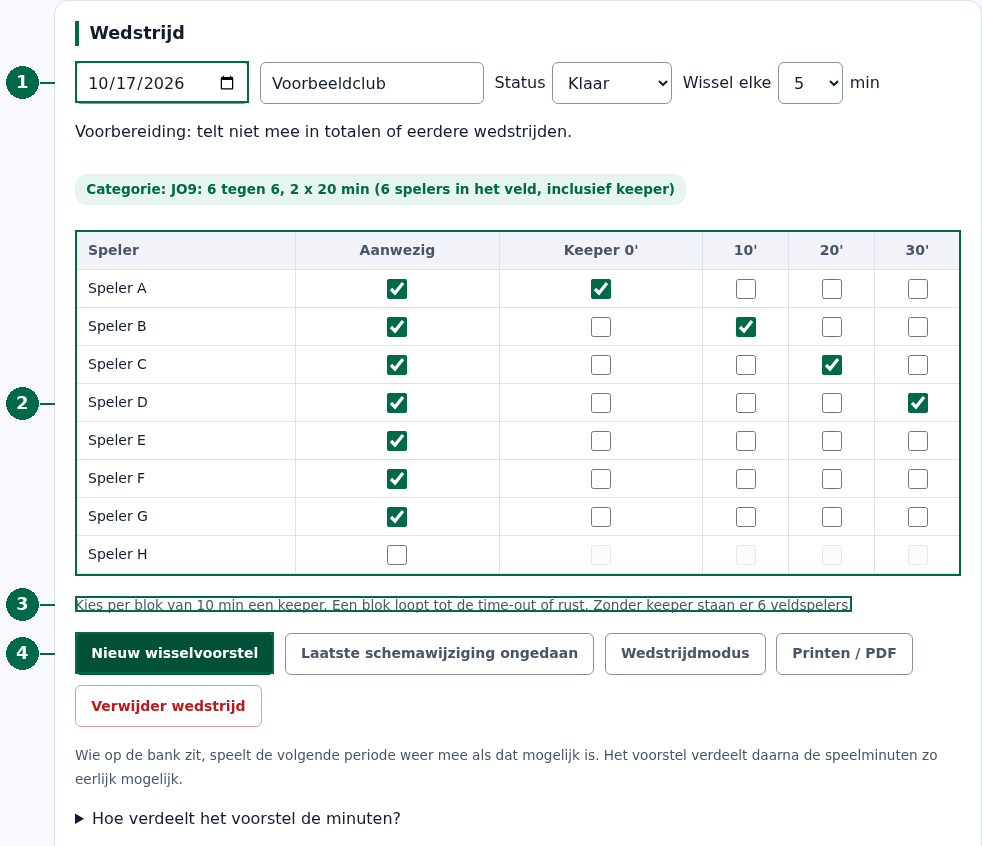
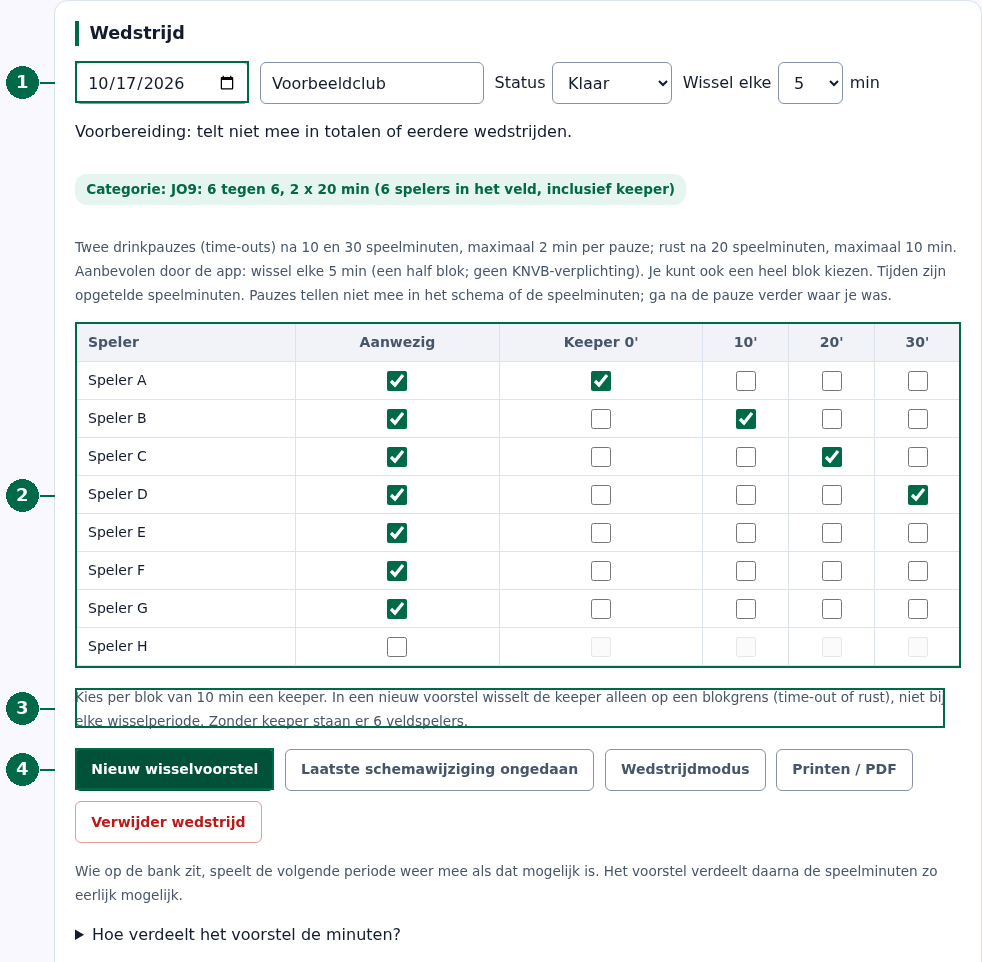
feat: recommend category-aware substitution intervals (#7)

diff --git a/uitleg.html b/uitleg.html
@@ -66,6 +66,10 @@
   .contents { display: flex; flex-wrap: wrap; gap: .55rem; padding-top: 1rem; margin-top: 1rem; border-top: 1px solid var(--border) }
   .contents a { display: inline-flex; align-items: center; padding: .4rem .8rem; min-height: 40px; border: 1px solid var(--border); border-radius: 999px; background: var(--subtle); color: var(--muted); text-decoration: none; font-size: .85rem; font-weight: 600 }
   .contents a:hover { color: var(--primary); background: var(--primary-light); border-color: #96c6b5 }
+  .timing-table { overflow-x: auto }
+  .timing-table table { width: 100%; min-width: 680px; border-collapse: collapse; font-size: .9rem }
+  .timing-table th, .timing-table td { border: 1px solid var(--border); padding: .5rem; text-align: left; vertical-align: top; overflow-wrap: normal }
+  .timing-table th { background: var(--subtle) }
   figure { margin: 1.25rem 0 0; padding: .75rem; background: var(--subtle); border: 1px solid var(--border); border-radius: 10px }
   figure a { display: block; border-radius: 6px }
   img { display: block; max-width: 100%; height: auto; border: 1px solid var(--border); border-radius: 6px }
@@ -119,6 +123,22 @@
 <li>Kies bij categorieën met keeper voor elk blok één aanwezige speler als keeper. De kolom toont de startminuut van het blok. Zonder vinkje gebruikt de app alleen veldspelers; bij een categorie zonder keeper zijn er geen keeperkolommen.</li>
 <li>Klik op <strong>Nieuw wisselvoorstel</strong> als je een nieuw voorstel wilt. Als je de aanwezigheid, keeper of het wisselinterval wijzigt, maakt de app ook een nieuw schema. Bij een handmatig aangepast, oud of gespeeld schema vraagt de app eerst of je dat wilt vervangen. Annuleren bewaart zowel instellingen als schema. Met <strong>Laatste schemawijziging ongedaan</strong> herstel je één vorige schemawijziging, ook na opnieuw openen.</li>
 </ol>
+<h3>Speeltijd, pauzes en wisselinterval</h3>
+<p>De app adviseert een wisselinterval van een half blok. Dat is een keuze van de app, geen KNVB-verplichting. Je kunt bij <strong>Wissel elke … min</strong> ook een heel blok kiezen. <strong>7:30</strong> betekent 7 minuten en 30 seconden, dus 7,5 minuut.</p>
+<p>Op een smal scherm kun je deze tabel horizontaal schuiven om de pauzemomenten te lezen.</p>
+<div class="timing-table" role="region" aria-label="Speeltijden per categorie" tabindex="0"><table>
+<thead><tr><th>Categorie</th><th>Speeltijd</th><th>Blok</th><th>Aanbevolen wisselinterval</th><th>Pauzemomenten in speelminuten</th></tr></thead>
+<tbody>
+<tr><td>JO7</td><td>3 wedstrijdjes van 15 min</td><td>7:30 min</td><td>3:45 min</td><td>Blokgrenzen op 7:30, 22:30 en 37:30; een nieuw wedstrijdje na 15 en 30 min. Geen keeper.</td></tr>
+<tr><td>JO8 / JO9</td><td>2 × 20 min</td><td>10 min</td><td>5 min</td><td>Drinkpauzes op 10 en 30; rust op 20 min.</td></tr>
+<tr><td>JO10</td><td>2 × 25 min</td><td>12:30 min</td><td>6:15 min</td><td>Drinkpauzes op 12:30 en 37:30; rust op 25 min.</td></tr>
+<tr><td>JO11 / MO11 / JO12</td><td>2 × 30 min</td><td>15 min</td><td>7:30 min</td><td>Drinkpauzes op 15 en 45; rust op 30 min.</td></tr>
+</tbody>
+</table></div>
+<p>Bij JO8 tot en met JO12 en MO11 duren de twee drinkpauzes (time-outs) maximaal 2 minuten per pauze. De rust duurt bij JO8, JO9 en JO10 maximaal 10 minuten; bij JO11, MO11 en JO12 maximaal 15 minuten. Een keeperblok loopt tot een time-out of rust. Bij het aanbevolen halve blok zijn er twee wisselperiodes per keeperblok: in een nieuw voorstel blijft de gekozen keeper beide periodes staan. Keeper per periode in de tabel blijft beschikbaar om achteraf te corrigeren.</p>
+<p>Alle tijden zijn opgetelde speelminuten. Pauzes tellen niet mee in het schema of de speelminuten. Houd je eigen klok tijdens een pauze stil en ga daarna verder waar je was; de app heeft geen automatische timer. Bij JO7 telt één schema de drie wedstrijdjes door tot 45 speelminuten.</p>
+<p>Het advies geldt voor nieuwe wedstrijden en bij een bevestigde categorieomzetting als het vorige interval niet meer past. Een passend, zelfgekozen interval blijft staan. Opgeslagen en teruggezette schema’s worden niet stilzwijgend aangepast.</p>
+<p>Speeltijden en wedstrijdvormen: KNVB seizoen 2026/’27, infographics 4 tegen 4 (O7), 6 tegen 6 (O8, O9 en O10) en 8 tegen 8 (O11 en O12).</p>
 <p>Bij oude wedstrijden zonder opgeslagen status toont de app <strong>afgeleid</strong>: een datum vóór vandaag telt voorlopig als Gespeeld, vandaag of later als Klaar. Dit is geen bewijs dat er is gespeeld. Kies zelf de juiste status. De app verandert het oude schema niet.</p>
 <figure><a href="assets/manual/03-wedstrijd.png"><img src="assets/manual/03-wedstrijd.png" alt="Voorbeeldwedstrijd: 1 datum en tegenstander, 2 aanwezigheid, 3 uitleg keeperblokken, 4 nieuw wisselvoorstel."></a><figcaption>Speler H is afwezig; de keeper wisselt per blok. De status Klaar betekent dat dit nog een voorbereiding is.</figcaption></figure>
 </section>

diff --git a/matches.test.js b/matches.test.js
@@ -15,6 +15,86 @@ function app(storage = { value: JSON.stringify(initial()) }, accept = true) {
   vm.runInContext(fs.readFileSync('index.html','utf8').match(/<script>([\s\S]*?)<\/script>/)[1], context);
   return { node, alerts, storage, reloads:()=>reloadCount, data:()=>JSON.parse(storage.value), run:code=>vm.runInContext(code, context) };
 }
+test('new matches recommend half a category block, including fractional minutes', () => {
+  for (const [category, interval, total] of [['JO7',3.75,45],['JO8',5,40],['JO9',5,40],['JO10',6.25,50],['JO11',7.5,60],['MO11',7.5,60],['JO12',7.5,60]]) {
+    const d=initial(); d.teams[0].cat=category;
+    const a=app({value:JSON.stringify(d)}); a.node('#newMatch').onclick();
+    const m=a.data().matches[0];
+    assert.equal(m.interval,interval,category);
+    assert.equal(m.slots.length*m.interval,total,category);
+    assert.equal(m.slots.length,category==='JO7'?12:8);
+    assert.ok(m.slots.every(on=>on.length===a.run(`CATS.${category}.field`)));
+  }
+});
+
+test('category guidance distinguishes breaks, recommended intervals and keeper blocks', () => {
+  for (const category of ['JO7','JO8','JO9','JO10','JO11','MO11','JO12']) {
+    const d=initial(); d.teams[0].cat=category;
+    const a=app({value:JSON.stringify(d)}); a.node('#newMatch').onclick();
+    const hint=a.node('#timingHint').textContent || '';
+    assert.match(hint,/Aanbevolen door de app/);
+    assert.match(hint,/geen KNVB-verplichting/);
+    assert.match(hint,/Pauzes tellen niet mee/);
+    if(category==='JO7') {
+      assert.match(hint,/7:30, 22:30 en 37:30/);
+      assert.match(hint,/15 en 30/);
+      assert.match(hint,/3:45/);
+      assert.equal(a.node('#keeperHint').textContent,'');
+    } else {
+      assert.match(hint,/Twee drinkpauzes/);
+      assert.match(a.node('#keeperHint').textContent,/niet bij elke wisselperiode/);
+    }
+    if(category==='JO10') assert.match(hint,/6:15/);
+    if(['JO11','MO11','JO12'].includes(category)) {
+      assert.match(hint,/15 en 45/);
+      assert.match(hint,/rust na 30 speelminuten, maximaal 15 min/);
+    } else if(category!=='JO7') assert.match(hint,/rust na .*maximaal 10 min/);
+  }
+});
+
+test('category conversion uses the recommendation only when the saved interval is unsupported', () => {
+  const a=app(); a.node('#newMatch').onclick();
+  a.node('#mInt').onchange({target:{value:'10'}});
+  a.node('#teamCat').onchange({target:{value:'JO8'}});
+  assert.equal(a.data().matches[0].interval,10);
+  const original=a.data().matches[0];
+  a.node('#teamCat').onchange({target:{value:'JO11'}});
+  assert.equal(a.data().matches[0].interval,7.5);
+  a.node('#undo').onclick();
+  assert.equal(a.data().matches[0].interval,10);
+  assert.deepEqual(a.data().matches[0].slots,original.slots);
+  const b=app(a.storage,false), before=b.data().matches;
+  b.node('#teamCat').onchange({target:{value:'JO10'}});
+  assert.deepEqual(b.data().matches,before);
+  b.node('#newMatch').onclick();
+  assert.equal(b.data().matches.at(-1).interval,6.25);
+});
+
+test('whole-block selections and complete saved records survive reload and backup validation unchanged', () => {
+  for (const category of ['JO7','JO8','JO9','JO10','JO11','MO11','JO12']) {
+    const d=initial(); d.teams[0].cat=category;
+    const a=app({value:JSON.stringify(d)}); a.node('#newMatch').onclick();
+    const block=a.run(`CATS.${category}.block`);
+    a.node('#mInt').onchange({target:{value:String(block)}});
+    const before=a.data();
+    const b=app(a.storage); b.node('#matches').onclick({target:{dataset:{m:before.matches[0].id}}});
+    assert.deepEqual(b.data(),before);
+    assert.deepEqual(JSON.parse(b.run('JSON.stringify(validateBackup(db))')),before);
+    assert.equal(b.data().matches[0].interval,block);
+  }
+});
+
+test('recommended substitution periods keep proposal keepers until their block boundary', () => {
+  for(const category of ['JO7','JO8','JO9','JO10','JO11','MO11','JO12']) {
+    const d=initial(); d.teams[0].cat=category;
+    const a=app({value:JSON.stringify(d)}); a.node('#newMatch').onclick();
+    if(category!=='JO7') for(let q=0;q<4;q++) a.node('#matchSec').onchange({target:{dataset:{keeper:`p${q}`,q:String(q)},checked:true}});
+    const m=a.data().matches[0];
+    assert.deepEqual(m.keeperBySlot,category==='JO7'?Array(12).fill(null):['p0','p0','p1','p1','p2','p2','p3','p3']);
+    assert.equal(a.run('Object.values(minutes(match())).reduce((a,b)=>a+b,0)'), a.run('cat(match()).field*cat(match()).blocks*cat(match()).block'));
+  }
+});
+
 test('new matches start Concept and only played matches enter totals and history', () => {
   const a=app(); a.node('#newMatch').onclick();
   assert.equal(a.data().matches[0].status,'draft');

diff --git a/index.html b/index.html
@@ -158,6 +158,7 @@
   </div>
   <p id="statusHint" role="status"></p>
   <p id="mCat"></p>
+  <p><small id="timingHint"></small></p>
   <div id="mPlayers"></div>
   <p><small id="keeperHint"></small></p>
   <div class="row"><button id="gen">Nieuw wisselvoorstel</button> <button class="alt" id="undo" disabled>Laatste schemawijziging ongedaan</button> <button class="alt" id="matchModeBtn">Wedstrijdmodus</button> <button class="alt" id="printBtn">Printen / PDF</button> <button class="alt" id="delMatch">Verwijder wedstrijd</button></div>
@@ -270,7 +271,7 @@ const catOptions = sel => Object.entries(CATS).map(([k, c]) => `<option value="$
 function setCat(m, k) {
   const c = CATS[k];
   m.cat = k;
-  if (!intervals(c).includes(m.interval)) m.interval = intervals(c).find(Number.isInteger) ?? c.block;
+  if (!intervals(c).includes(m.interval)) m.interval = c.block / 2;
   m.keepers = Array.from({ length: c.keeper ? c.blocks : 0 }, (_, q) => m.keepers?.[q] ?? null);
 }
 
@@ -302,8 +303,12 @@ function renderMatch(m) {
   $('#mDate').value = m.date; $('#mOpp').value = m.opponent;
   $('#mInt').innerHTML = intervals(c).map(x => `<option value="${x}" ${x === m.interval ? 'selected' : ''}>${fmt(x)}</option>`).join('');
   $('#mCat').textContent = `Categorie: ${c.label} (${c.field} spelers in het veld${c.keeper ? ', inclusief keeper' : ''})`;
+  $('#timingHint').textContent = (c.keeper
+    ? `Twee drinkpauzes (time-outs) na ${fmt(c.block)} en ${fmt(3 * c.block)} speelminuten, maximaal 2 min per pauze; rust na ${fmt(2 * c.block)} speelminuten, maximaal ${c.field === 8 ? 15 : 10} min.`
+    : 'Drie wedstrijdjes van 15 min, elk in twee blokken van 7:30. Blokgrenzen na 7:30, 22:30 en 37:30 speelminuten; een nieuw wedstrijdje begint na 15 en 30 speelminuten.') +
+    ` Aanbevolen door de app: wissel elke ${fmt(c.block / 2)} min (een half blok; geen KNVB-verplichting). Je kunt ook een heel blok kiezen. Tijden zijn opgetelde speelminuten. Pauzes tellen niet mee in het schema of de speelminuten; ga na de pauze verder waar je was.`;
   $('#keeperHint').textContent = c.keeper
-    ? `Kies per blok van ${fmt(c.block)} min een keeper. Een blok loopt tot de time-out of rust. Zonder keeper staan er ${c.field} veldspelers.` : '';
+    ? `Kies per blok van ${fmt(c.block)} min een keeper. In een nieuw voorstel wisselt de keeper alleen op een blokgrens (time-out of rust), niet bij elke wisselperiode. Zonder keeper staan er ${c.field} veldspelers.` : '';
   $('#mPlayers').innerHTML = '<table><tr><th>Speler</th><th>Aanwezig</th>' +
     m.keepers.map((_, q) => `<th>${q ? '' : 'Keeper '}${fmt(q * c.block)}'</th>`).join('') + '</tr>' +
     players().map(p => { const here = m.present.includes(p.id);

diff --git a/scripts/verify-category-timing.py b/scripts/verify-category-timing.py
@@ -1,0 +1,141 @@
+"""Verify category defaults, keeper blocks and saved schedules in real Chromium.
+
+Use external Playwright tooling; only fictional local data is created.
+"""
+import argparse
+import functools
+import http.server
+import json
+from pathlib import Path
+import socket
+import threading
+from playwright.sync_api import sync_playwright
+
+parser = argparse.ArgumentParser(description=__doc__)
+parser.add_argument('--root', type=Path, default=Path(__file__).resolve().parents[1])
+parser.add_argument('--output', type=Path, required=True)
+parser.add_argument('--chromium', required=True)
+args = parser.parse_args()
+args.output.mkdir(parents=True, exist_ok=True)
+server = http.server.ThreadingHTTPServer(('127.0.0.1', 0), functools.partial(http.server.SimpleHTTPRequestHandler, directory=str(args.root)))
+port = server.server_port
+threading.Thread(target=server.serve_forever, daemon=True).start()
+base = f'http://127.0.0.1:{port}'
+results, errors, external, snapshots = [], [], [], {}
+try:
+    with sync_playwright() as p:
+        browser = p.chromium.launch(executable_path=args.chromium, args=['--no-sandbox'])
+        for category, interval, total, label in [('JO11', 7.5, 60, '7:30'), ('JO7', 3.75, 45, '3:45'), ('JO8', 5, 40, '5'), ('JO9', 5, 40, '5'), ('JO10', 6.25, 50, '6:15'), ('MO11', 7.5, 60, '7:30'), ('JO12', 7.5, 60, '7:30')]:
+            context = browser.new_context(viewport={'width': 1100, 'height': 1000}, locale='nl-NL')
+            fixture = {'teams': [{'id': 'team', 'name': 'Fictief ' + category, 'cat': category, 'players': [{'id': f'p{i}', 'name': f'Speler {i}'} for i in range(8)]}], 'team': 'team', 'matches': []}
+            context.add_init_script("let seed=42; Math.random=()=>((seed=(Math.imul(seed,1664525)+0x3c6ef35f)>>>0)/4294967296);")
+            def route(r):
+                if not r.request.url.startswith(base + '/'):
+                    external.append(r.request.url)
+                    r.abort()
+                else:
+                    r.continue_()
+            context.route('**/*', route)
+            page = context.new_page()
+            page.on('pageerror', lambda e: errors.append(str(e)))
+            page.goto(base + '/index.html')
+            page.evaluate("d=>localStorage.setItem('wissels-jo9',JSON.stringify(d))", fixture)
+            page.reload()
+            decisions = []
+            def dialog(d):
+                if d.type == 'alert' or (decisions.pop(0) if decisions else True):
+                    d.accept()
+                else:
+                    d.dismiss()
+            page.on('dialog', dialog)
+            def data():
+                return page.evaluate("JSON.parse(localStorage.getItem('wissels-jo9'))")
+            def current():
+                return data()['matches'][0]
+            def open_match():
+                page.locator(f'#matches [data-m="{current()["id"]}"]').click()
+            page.click('#newMatch')
+            m = current()
+            assert m['interval'] == interval, (category, m['interval'], interval)
+            assert len(m['slots']) * interval == total
+            assert page.locator('#mInt option:checked').inner_text() == label
+            hint = page.locator('#timingHint').inner_text()
+            assert 'Pauzes tellen niet mee' in hint and 'geen KNVB-verplichting' in hint
+            if category == 'JO7':
+                assert '7:30, 22:30 en 37:30' in hint and '15 en 30' in hint
+                assert page.locator('[data-keeper]').count() == 0
+                assert m['keeperBySlot'] == [None] * 12
+            else:
+                for q in range(4):
+                    page.locator(f'[data-keeper="p{q}"][data-q="{q}"]').check()
+                assert current()['keeperBySlot'] == ['p0', 'p0', 'p1', 'p1', 'p2', 'p2', 'p3', 'p3']
+            page.click('#matchModeBtn')
+            assert label in page.locator('#modeCurrent').inner_text()
+            page.click('#modeClose')
+            if category == 'JO11':
+                page.locator('#matchSec').screenshot(path=str(args.output / 'jo11-desktop.png'))
+                page.set_viewport_size({'width': 390, 'height': 844})
+                assert page.evaluate('document.documentElement.scrollWidth <= innerWidth')
+                page.locator('#matchSec').screenshot(path=str(args.output / 'jo11-mobile.png'))
+                page.set_viewport_size({'width': 1100, 'height': 1000})
+            page.select_option('#mInt', f'{interval * 2:g}')
+            saved = data()
+            page.reload()
+            open_match()
+            assert data() == saved
+            assert current()['interval'] == interval * 2
+            # Restore full records including a custom legacy field, with no regeneration.
+            restored = json.loads(json.dumps(saved))
+            restored['matches'][0]['legacyNote'] = 'Preserve unknown historical fields'
+            decisions.extend([False, True])
+            page.locator('#import').set_input_files({'name': 'fictional.json', 'mimeType': 'application/json', 'buffer': json.dumps(restored).encode()})
+            page.wait_for_function("d=>JSON.stringify(JSON.parse(localStorage.getItem('wissels-jo9')))===JSON.stringify(d)", arg=restored)
+            page.reload()
+            open_match()
+            assert data() == restored
+            # Both supported category conversion and rejected conversion preserve settings.
+            if category == 'JO9':
+                page.select_option('#teamCat', 'JO8')
+                assert current()['interval'] == 10
+                previous = current()
+                page.select_option('#teamCat', 'JO11')
+                assert current()['interval'] == 7.5
+                page.click('#undo')
+                expected = {k: v for k, v in previous.items() if k != 'undo'}
+                assert current() == expected
+                before = data()['matches']
+                decisions.append(False)
+                page.select_option('#teamCat', 'JO10')
+                assert data()['matches'] == before
+                page.click('#newMatch')
+                assert data()['matches'][-1]['interval'] == 6.25
+            assert not decisions
+            snapshots[category] = {'saved': saved, 'restored': restored, 'final': data()}
+            results.append({'category': category, 'recommended_interval': interval, 'play_minutes': total, 'passed': True})
+            context.close()
+        context = browser.new_context(viewport={'width': 390, 'height': 844})
+        context.route('**/*', route)
+        page = context.new_page()
+        page.on('pageerror', lambda e: errors.append(str(e)))
+        page.goto(base + '/uitleg.html')
+        assert page.evaluate('document.documentElement.scrollWidth <= innerWidth')
+        page.locator('.timing-table').screenshot(path=str(args.output / 'manual-timing-mobile.png'))
+        page.locator('.timing-table').evaluate('el=>el.scrollLeft=el.scrollWidth')
+        assert page.locator('.timing-table').evaluate('el=>el.scrollLeft>0')
+        page.locator('.timing-table').screenshot(path=str(args.output / 'manual-timing-mobile-pauses.png'))
+        page.set_viewport_size({'width': 1100, 'height': 1000})
+        page.locator('.timing-table').screenshot(path=str(args.output / 'manual-timing-desktop.png'))
+        context.close()
+        browser.close()
+    assert not errors and not external, (errors, external)
+    report = {'categories': results, 'page_errors': errors, 'external_requests': external}
+    assert len(results) == 7 and len({r['category'] for r in results}) == 7
+    (args.output / 'snapshots.json').write_text(json.dumps(snapshots, indent=2))
+    (args.output / 'results.json').write_text(json.dumps(report, indent=2))
+    print(json.dumps(report, indent=2))
+finally:
+    server.shutdown()
+    server.server_close()
+    with socket.socket() as probe:
+        assert probe.connect_ex(('127.0.0.1', port)) != 0
+    print(f'Loopback server port {port} closed.')
